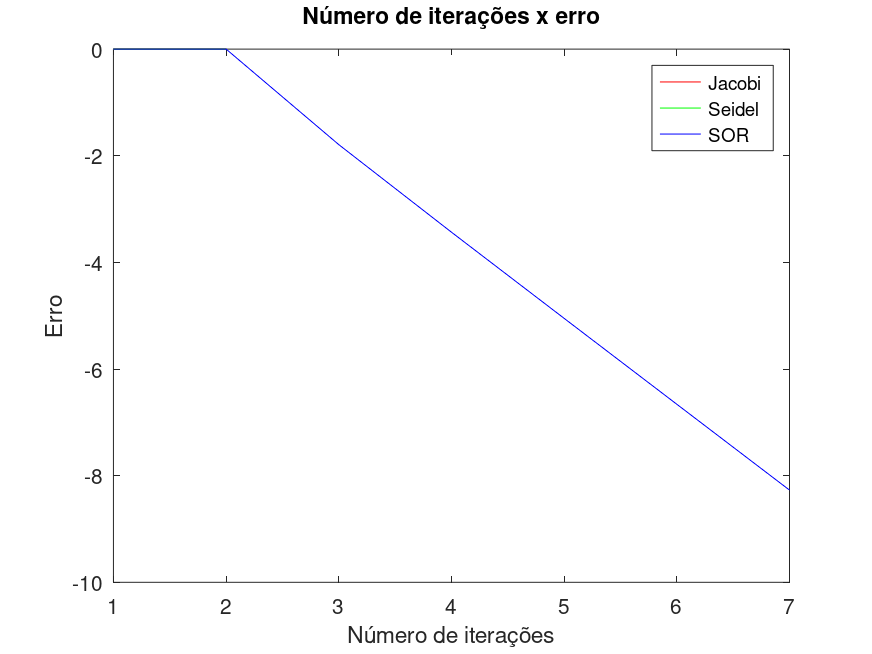
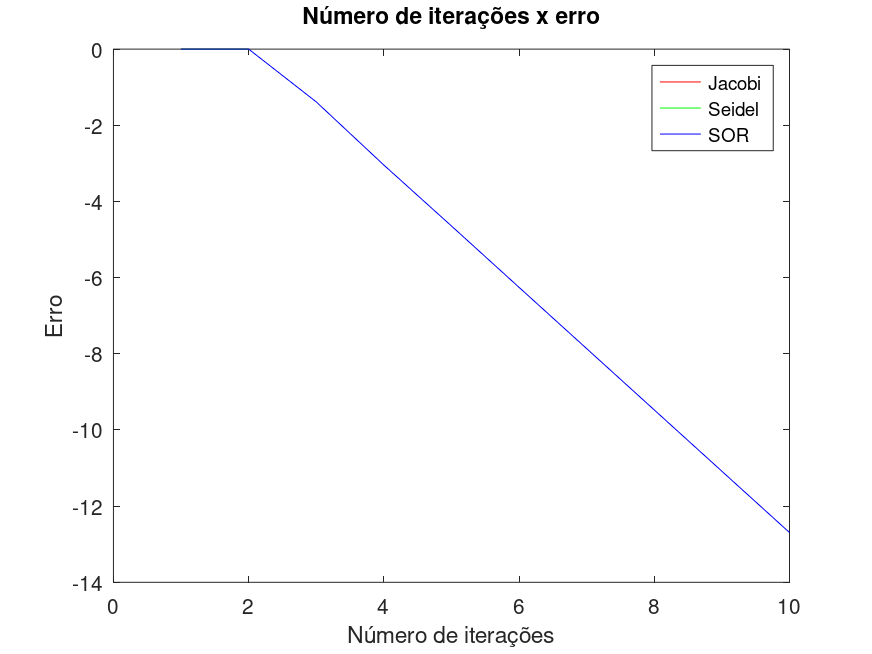
Adding matrices with better graphics

diff --git a/ex1.m b/ex1.m
@@ -1,21 +1,29 @@
-files = {"bcsstm02", "gre_115", "1138_bus"};
-tol = cell(3, 1);
-max_iter = cell(3, 1);
-omega = cell(3, 1);
+files = {"bcsstm02", "gre_115", "1138_bus", "steam3", "494_bus"};
+tol = cell(5, 1);
+max_iter = cell(5, 1);
+omega = cell(5, 1);
 
-tol{1} = 0.0001;
-max_iter{1} = 1000;
-omega{1} = 0.8;
+tol{1} = 0.000001;
+max_iter{1} = 100;
+omega{1} = 1.2;
 
 tol{2} = 0.0001;
-max_iter{2} = 1000;
+max_iter{2} = 70;
 omega{2} = 0.8;
 
 tol{3} = 0.0001;
-max_iter{3} = 1000;
-omega{3} = 0.8;
+max_iter{3} = 360;
+omega{3} = 0.4;
 
-for i = 1 : 3
+tol{4} = 0.000001;
+max_iter{4} = 90;
+omega{4} = 0.8;
+
+tol{5} = 0.00001;
+max_iter{5} = 2000;
+omega{5} = 0.8;
+
+for i = 5
 
     filename = sprintf("in/%s.mat", files{i});
 
